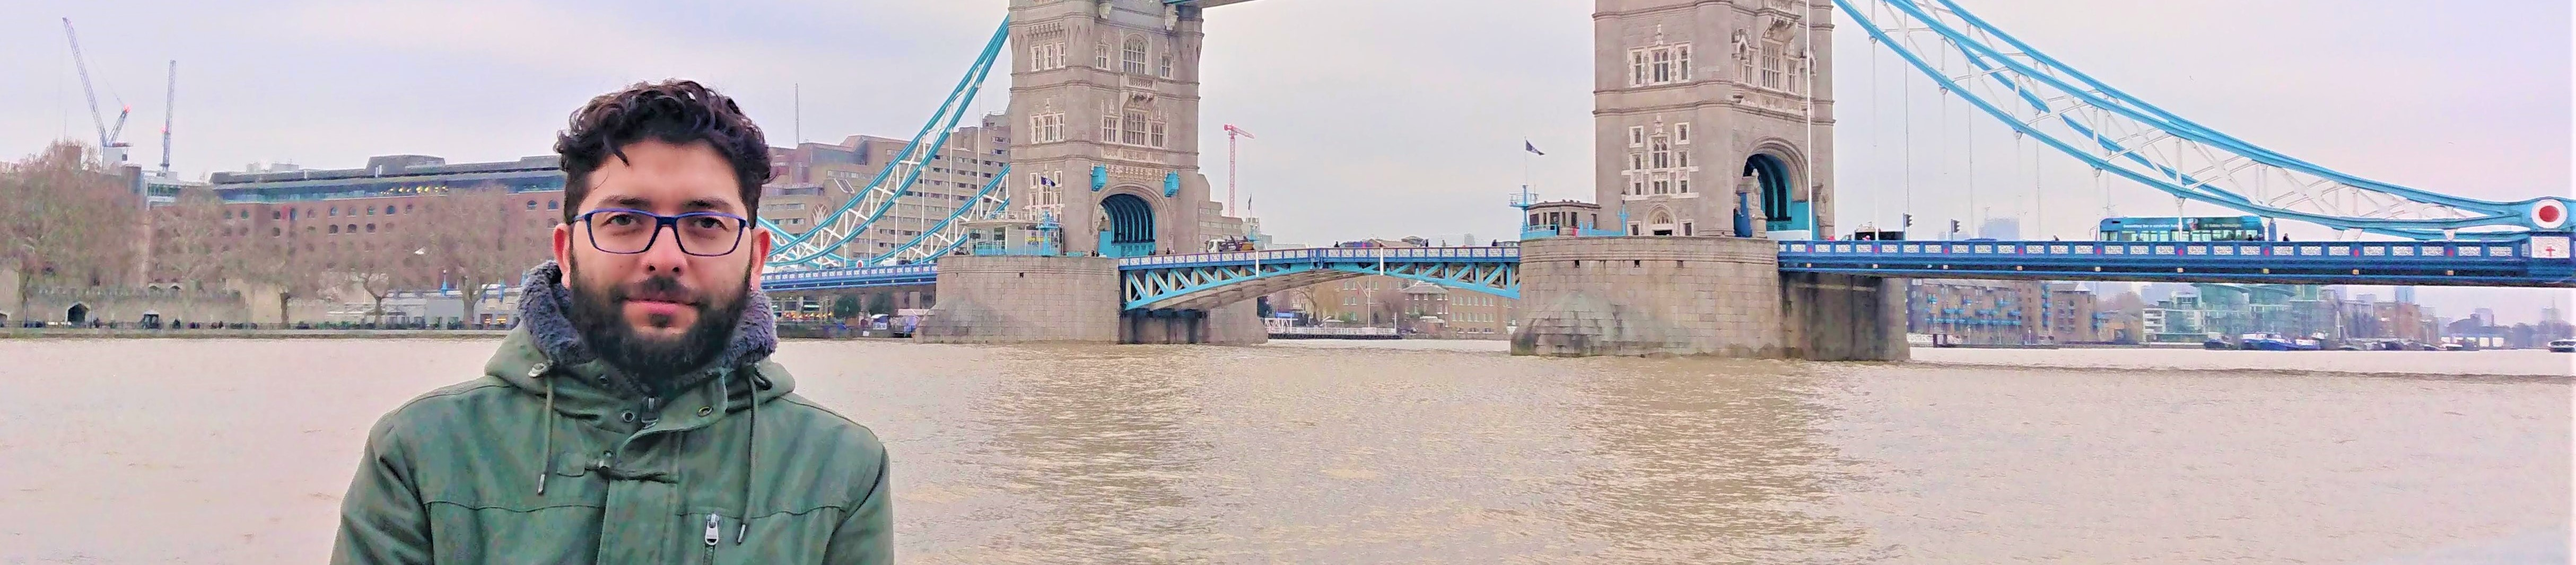
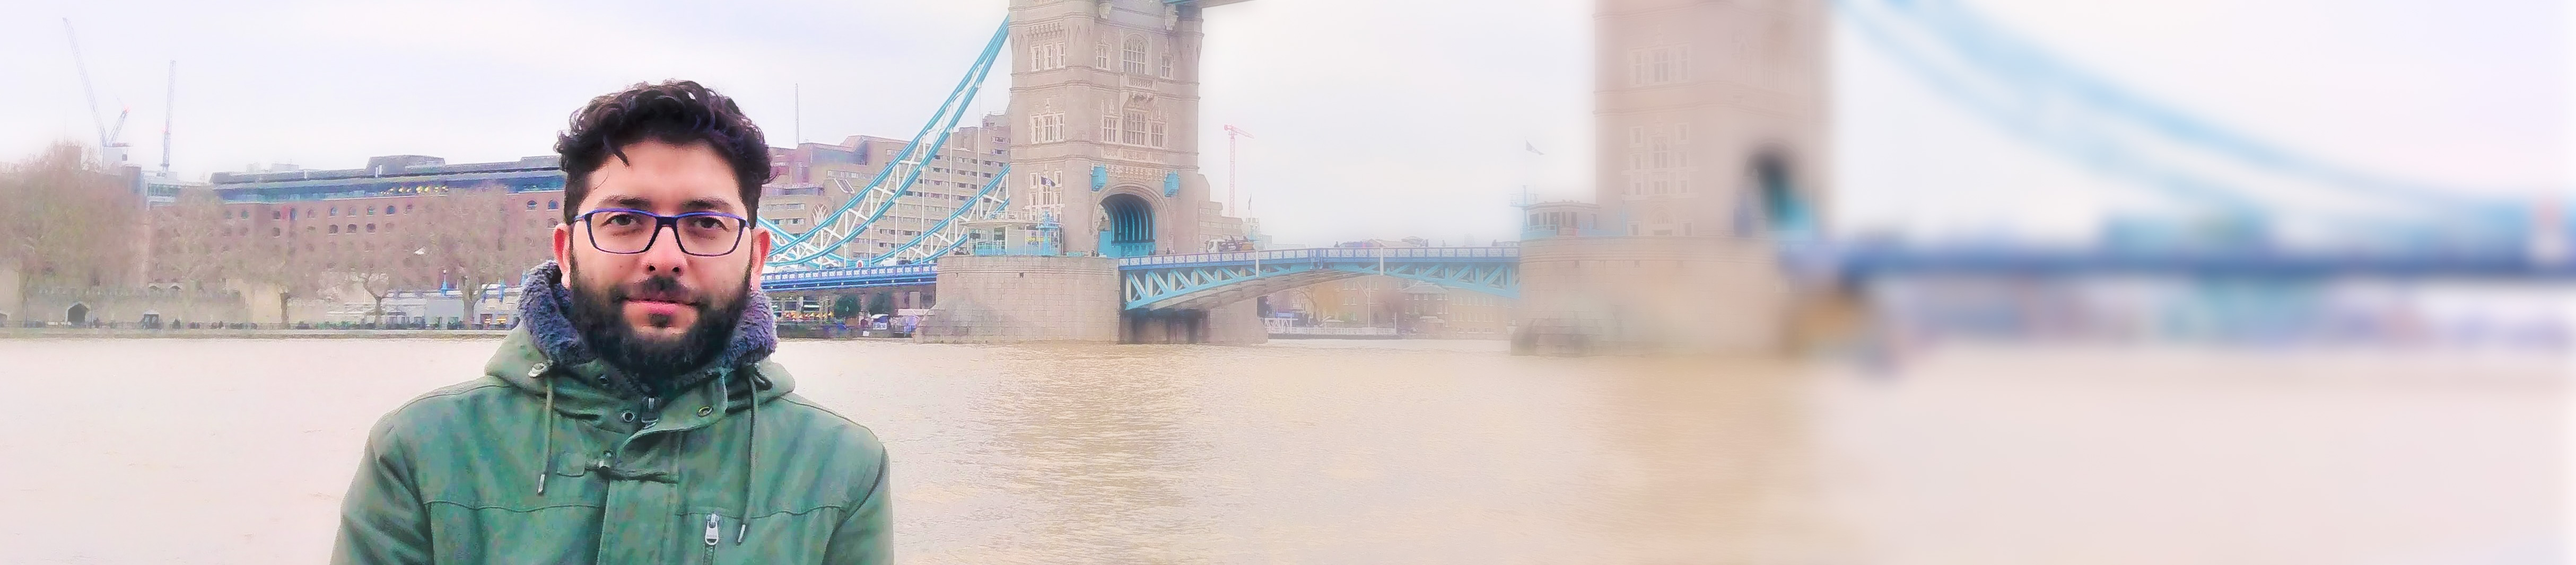
commit final

diff --git a/index.html b/index.html
@@ -15,40 +15,42 @@
     <script src="https://kit.fontawesome.com/9edcc509c8.js" crossorigin="anonymous"></script>
     <!--Mi estilo-->
     <link rel="stylesheet" href="assets/css/style.css">
-
 </head>
-<!--Navbar-->
-<nav class="navbar navbar-expand-lg navbar-dark bg-info py-0">
-    <a class="navbar-brand text ml-2" href="#">{F//F}</a>
-    <button class="navbar-toggler" type="button" data-toggle="collapse" data-target="#navbarNav"
-        aria-controls="navbarNav" aria-expanded="false" aria-label="Toggle navigation">
-        <span class="navbar-toggler-icon"></span>
-    </button>
-    <div class="collapse navbar-collapse" id="navbarNav">
-        <ul class="navbar-nav ml-auto">
-            <li class="nav-item">
-                <a class="nav-link" href="#">Sobre mí</a>
-            </li>
-            <li class="nav-item">
-                <a class="nav-link" href="#">Experiencia</a>
-            </li>
-            <li class="nav-item">
-                <a class="nav-link" href="#">Trabajos</a>
-            </li>
-            <li class="nav-item">
-                <a class="nav-link" href="#">Contacto</a>
-            </li>
-        </ul>
-    </div>
-</nav>
 
 <body class="text-dark">
+    <!--Navbar-->
+    <nav class="navbar sticky-top navbar-expand-lg navbar-dark bg-info py-0">
+        <a class="brand text-white text-decoration-none ml-2">{F//F}</a>
+        <button class="navbar-toggler" type="button" data-toggle="collapse" data-target="#navbarNav"
+            aria-controls="navbarNav" aria-expanded="false" aria-label="Toggle navigation">
+            <span class="navbar-toggler-icon"></span>
+        </button>
+        <div class="collapse navbar-collapse" id="navbarNav">
+            <ul class="navbar-nav ml-auto">
+                <li class="nav-item">
+                    <a class="nav-link d-none d-md-block" href="#"><i class="fas fa-home"></i></a>
+                </li>
+                <li class="nav-item">
+                    <a class="nav-link d-none d-md-block" href="#sobre-mi">Sobre mí</a>
+                </li>
+                <li class="nav-item">
+                    <a class="nav-link" href="#experiencia">Experiencia</a>
+                </li>
+                <li class="nav-item">
+                    <a class="nav-link" href="#trabajos">Trabajos</a>
+                </li>
+                <li class="nav-item">
+                    <a class="nav-link" href="#contacto">Contacto</a>
+                </li>
+            </ul>
+        </div>
+    </nav>
 
     <!--Hero Section-->
     <header>
         <section class="container-fluid px-0 mx-0 d-block d-md-none">
             <div>
-                <img class="img-fluid" src="assets/img/hero1_sm.jpg" alt="foto felipe small">
+                <img class="img-fluid" src="assets/img/hero1sm.jpg" alt="foto felipe small">
             </div>
             <div class="text-center">
                 <h2 class="pt-5">{FELIPE FERNÁNDEZ}</h2>
@@ -56,25 +58,29 @@
             </div>
         </section>
         <section class="hero-lg container-fluid text-right py-0 px-0 mt-0 d-none d-md-block">
-            <div class="mr-5 text-right">
+            <div class="text-header mr-5 text-right text-white">
                 <h1 class="pt-5 pb-1">{FELIPE FERNÁNDEZ}</h1>
-                <h2 class="pb-1">[Traducción EN<>SP]</h2>
-                <h2 class="pb-5">[Desarrollo Front End]</h2>
+                <h2 class="pb-1">Traducción EN<>SP</h2>
+                <h2 class="pb-5">Desarrollo Front End</h2>
+                <br>
             </div>
         </section>
     </header>
+    <br id="sobre-mi">
+    <br>
+    <br>
 
     <!--Sección Sobre mí-->
-    <section class="container my-5">
+    <section class="container my-5 d-none d-sm-block">
         <div class="text-center">
             <h2 class="border-bottom pb-4">SOBRE MÍ</h2>
         </div>
         <div class="row fuente-texto text-justify my-4">
             <div class="col-12 col-sm-12 col-md-6">
                 <p>
-                    Como Traductor Inglés Español, poseo experiencia en diversas áreas; educación, turismo y
-                    entidades financieras, desenvolviéndome en instituciones y empresas de estas áreas, como son el
-                    Museo Chileno de Arte Precolombino, Universidad de Arte y Ciencias Sociales ARCIS,
+                    Titulado de Traductor Inglés Español, con experiencia en diversos ámbitos laborales; educación,
+                    turismo y entidades financieras, me he desenvuelto en instituciones y empresas de estas áreas, como
+                    el Museo Chileno de Arte Precolombino, Universidad de Arte y Ciencias Sociales ARCIS y
                     Experian Services Chile, entre otros. Además, he ejercido mi profesión de forma independiente con
                     distintos clientes.
                 </p>
@@ -82,14 +88,18 @@
             <div class="col-12 col-sm-12 col-md-6">
                 <p>
                     Actualmente me encuentro estudiando Desarrollo Web Front End en un programa de Talento Digital para
-                    Chile en la Academia Desafío Latam. Este curso se enmarca en la modalidad Bootcamp y, en sintonía
-                    con ésto, ya he podido desarrollar algunos proyectos de páginas web, como se detalla en la sección
-                    "Mis Últimos Proyectos".
+                    Chile e impartido por la Academia Desafío Latam. Este curso se enmarca en la modalidad Bootcamp y,
+                    en sintonía con ésto, ya he podido desarrollar algunos proyectos de páginas web, como se detalla en
+                    la sección "Mis Últimos Proyectos".
                 </p>
             </div>
         </div>
     </section>
-
+    <br id="experiencia">
+    <br>
+    <br>
+    <br>
+    <br>
     <!--Sección Experiencia (carrusel)-->
     <section class="container py-3 my-5">
         <div class="text-center pb-4">
@@ -128,13 +138,15 @@
             </div>
         </div>
     </section>
-
+    <br id="trabajos">
+    <br>
+    <br>
     <!--Sección Mis Proyectos-->
-    <section class="container-fluid bg-info py-5 my-5">
+    <section class="container-fluid bg-secondary py-5 my-5">
         <div class="text-center text-white py-5">
             <h2>MIS ÚLTIMOS PROYECTOS</h2>
         </div>
-        <div class="card-deck mb-4 px-5 text-center">
+        <div class="card-deck mb-4 mt-5 px-5 text-center">
             <div class="card">
                 <img src="assets/img/ricomida.png" class="card-img-top" alt="Proyecto Ricomida">
                 <div class="card-body">
@@ -181,24 +193,55 @@
             </div>
         </div>
     </section>
+    <br id="contacto">
+    <br>
+    <br>
+    <br>
+    <br>
 
     <!--Sección Contacto-->
-    <section>
+    <section class="my-5">
         <div class="text-center pb-4">
-            <h2>CONTÁCTAME</h2>
+            <br>
+            <h2>¿Quieres saber más de mí?</h2>
         </div>
-        <div>
-            
+        <div class="text-center">
+            <a class="typeform-share button" href="https://form.typeform.com/to/pFtVHG9j?typeform-medium=embed-snippet"
+                data-mode="popup"
+                style="display:inline-block;text-decoration:none;background-color:#5BC0DE;color:white;cursor:pointer;font-family:Helvetica,Arial,sans-serif;font-size:20px;line-height:50px;text-align:center;margin:0;height:50px;padding:0px 33px;border-radius:14px;max-width:100%;white-space:nowrap;overflow:hidden;text-overflow:ellipsis;font-weight:bold;-webkit-font-smoothing:antialiased;-moz-osx-font-smoothing:grayscale;"
+                data-size="100" target="_blank">¡Contáctame! </a>
         </div>
+        <br>
+        <br>
+        <br>
+        <br>
+        <br>
     </section>
 
+    <!--Footer-->
+    <footer class="container-fluid bg-dark py-5">
+        <div class="row text-center">
+            <div class="col-12 col-sm-12 col-md-6">
+                <a class="brand text-white text-decoration-none ml-2" href="#" data-toggle="tooltip" data-placement="bottom"
+                title="Volver Arriba">{F//F}</a>
+            </div>
+            <div class="iconos col-12 col-sm-12 col-md-6">
+                <a href="https://github.com/felipefer86" target="_blank"><i
+                        class="ml-3 text-white fab fa-github"></i></a>
+                <a href="https://www.instagram.com/pipefer/" target="_blank"><i
+                        class="ml-3 text-white fab fa-instagram"></i></a>
+                <a href="https://www.facebook.com/felipe.fdez.mendez" target="_blank"><i
+                        class="ml-3 text-white fab fa-facebook"></i></a>
+            </div>
+        </div>
+    </footer>
 
 
 
 
 
 
-
+    <!--Links Javascript-->
     <script src="https://code.jquery.com/jquery-3.5.1.slim.min.js"
         integrity="sha384-DfXdz2htPH0lsSSs5nCTpuj/zy4C+OGpamoFVy38MVBnE+IbbVYUew+OrCXaRkfj"
         crossorigin="anonymous"></script>
@@ -208,6 +251,8 @@
     <script src="https://cdn.jsdelivr.net/npm/bootstrap@4.5.3/dist/js/bootstrap.min.js"
         integrity="sha384-w1Q4orYjBQndcko6MimVbzY0tgp4pWB4lZ7lr30WKz0vr/aWKhXdBNmNb5D92v7s"
         crossorigin="anonymous"></script>
+    <!--Mi JS-->
+    <script src="assets/js/script.js"></script>
 </body>
 
 </html>

diff --git a/assets/css/style.css b/assets/css/style.css
@@ -8,7 +8,7 @@ body {
     font-family: 'Nunito', sans-serif;
 }
 
-.navbar-brand {
+.brand {
     font-size: 2.5rem;
 }
 
@@ -16,8 +16,12 @@ body {
     width: 100%;
 }
 
+.text-header{
+    text-shadow: 0.125em 0.25em 0.125em #707070;
+}
+
 .hero-lg {
-    background-image: url(../img/hero1_edited.jpg);
+    background-image: url(../img/hero1.jpg);
     background-repeat: no-repeat;
     background-size: cover;
     background-position: left;
@@ -37,3 +41,12 @@ body {
 .logo_size {
     width: 40%;
 }
+
+.iconos {
+    font-size: 3rem;
+    color: #ffffff;
+}
+
+html {
+    scroll-behavior: smooth;
+  }

diff --git a/assets/js/script.js b/assets/js/script.js
@@ -1,0 +1,11 @@
+$(function () {
+    var qs, js, q, s, d = document, gi = d.getElementById, ce = d.createElement,
+        gt = d.getElementsByTagName, id = "typef_orm_share", b = "https://embed.typeform.com/";
+    if (!gi.call(d, id)) {
+        js = ce.call(d, "script"); js.id = id; js.src = b + "embed.js";
+        q = gt.call(d, "script")[0]; q.parentNode.insertBefore(js, q)
+    }
+
+    $('[data-toggle="tooltip"]').tooltip()
+})()
+
